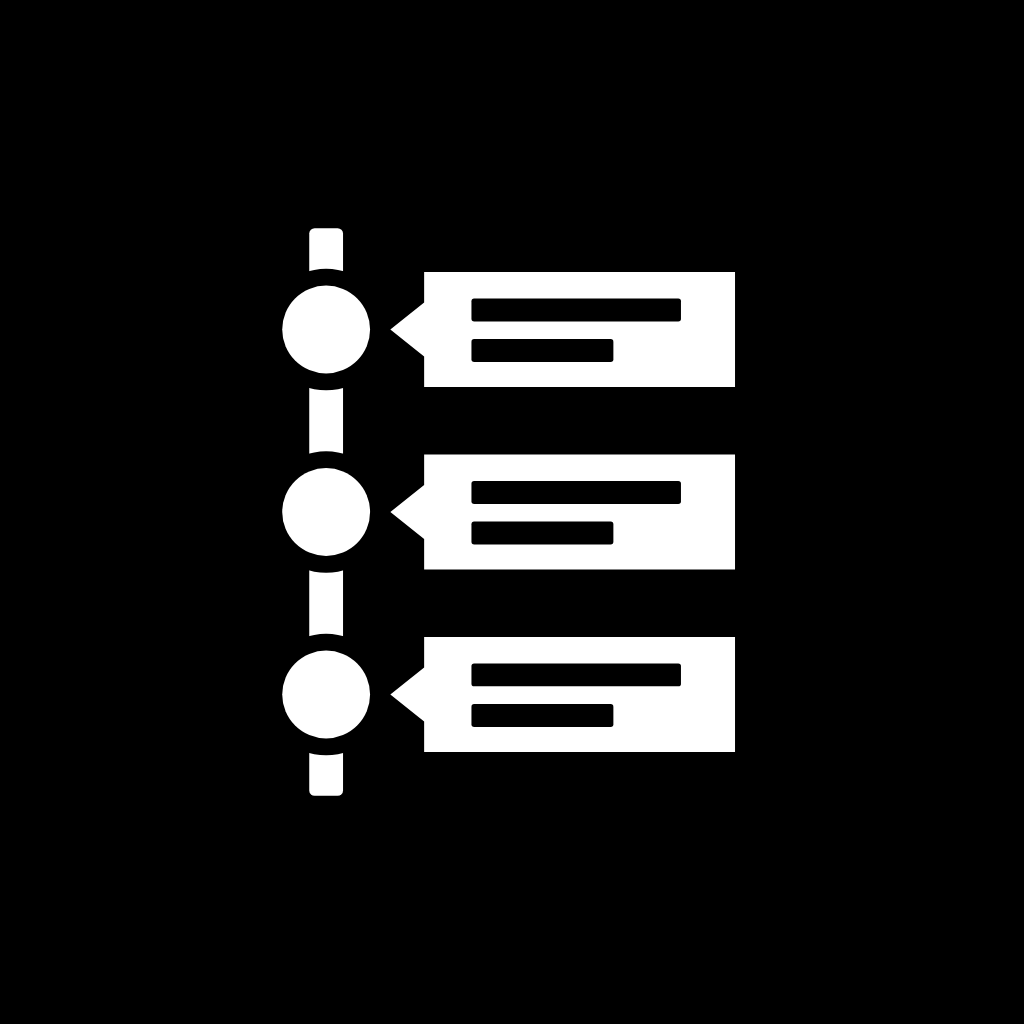
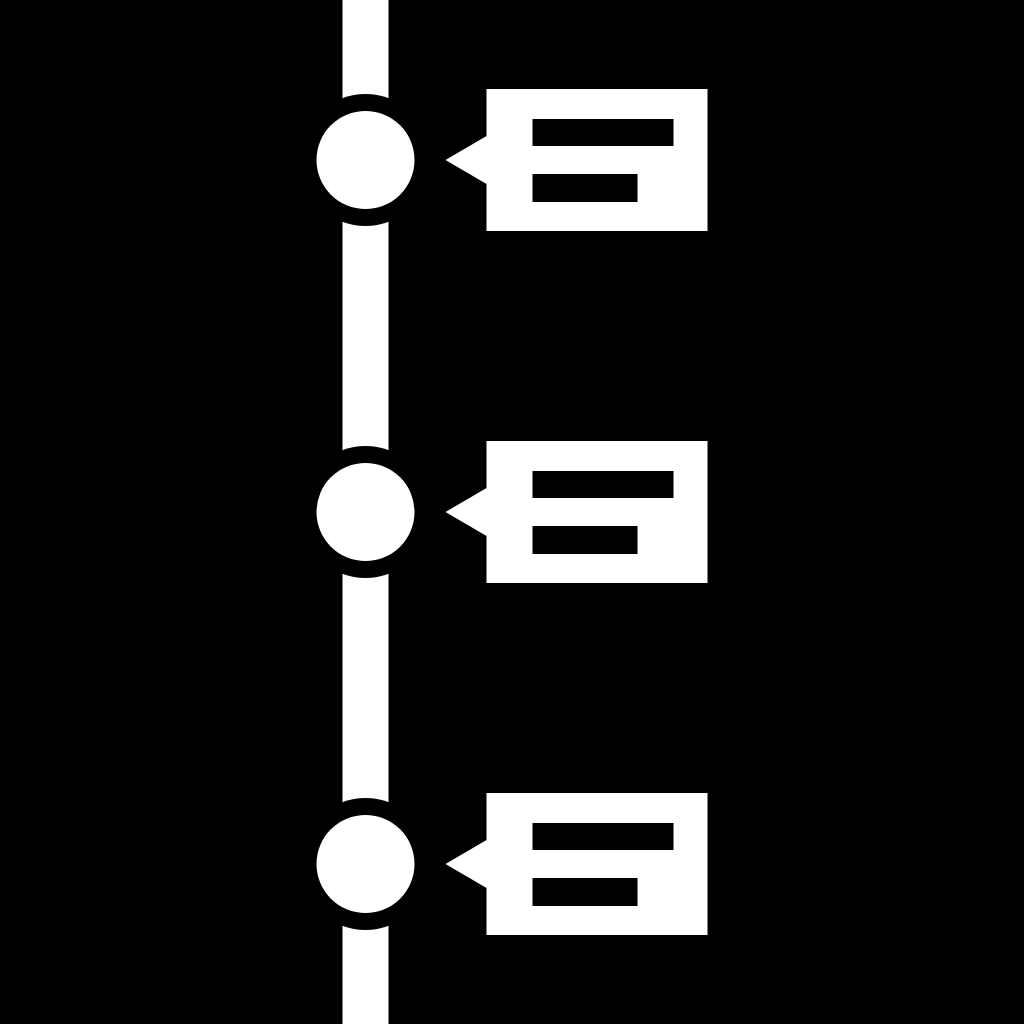
Timeline 1.3.1
- New app icon (supplied timeline_app_icon.svg): launcher, adaptive/themed,
  splash, notification and web favicon.
- Unread posts, reminders and notifications get a gold highlight (left rule,
  border and a faint tint) so they stand out from read ones, web and Android.

Claude-Session: https://claude.ai/code/session_01XptHNMHSp5G8GD6LBX7vSn

Changed region(s): [[0.25, 0.0, 0.7188, 1.0]]

diff --git a/mobile/src/components/PostCard.tsx b/mobile/src/components/PostCard.tsx
@@ -5,7 +5,7 @@ import { useQueryClient } from '@tanstack/react-query';
 import { AlarmClock, Check, Clapperboard, Download, FileText, Link2, Lock, MessageCircle, MoreHorizontal, Music, Play } from 'lucide-react-native';
 import { abs, api, type Attachment, type Post } from '../api';
 import { SOURCE_LABEL, bytes, markRead, setRead, timeAgo } from '../state';
-import { useTheme } from '../theme';
+import { GOLD, GOLD_TINT, useTheme } from '../theme';
 import { AgentBadge, Avatar, Row, T } from './ui';
 import { RemoteImage } from './RemoteImage';
 
@@ -36,14 +36,14 @@ function sourceLine(p: Post) {
 export function ReminderCard({ post }: { post: Post }) {
   const qc = useQueryClient();
   return (
-    <View style={{ flexDirection: 'row', alignItems: 'center', gap: 10, backgroundColor: '#f59e0b14', borderColor: '#f59e0b55', borderWidth: StyleSheet.hairlineWidth, borderLeftWidth: 3, borderLeftColor: '#f59e0b', borderRadius: 5, padding: 12 }}>
-      <View style={{ width: 38, height: 38, borderRadius: 5, backgroundColor: '#f59e0b33', alignItems: 'center', justifyContent: 'center' }}>
-        <AlarmClock size={19} color="#f59e0b" />
+    <View style={{ flexDirection: 'row', alignItems: 'center', gap: 10, backgroundColor: '#d4a42014', borderColor: '#d4a42055', borderWidth: StyleSheet.hairlineWidth, borderLeftWidth: 3, borderLeftColor: '#d4a420', borderRadius: 5, padding: 12 }}>
+      <View style={{ width: 38, height: 38, borderRadius: 5, backgroundColor: '#d4a42033', alignItems: 'center', justifyContent: 'center' }}>
+        <AlarmClock size={19} color="#d4a420" />
       </View>
       <Pressable style={{ flex: 1 }} onPress={() => post.refPost && router.push(`/post/${post.refPost.id}`)}>
         <T bold>{post.title}</T>
         {!!post.body && <T muted size={13}>{post.body}</T>}
-        <Text style={{ color: '#f59e0b', fontSize: 11.5 }}>
+        <Text style={{ color: '#d4a420', fontSize: 11.5 }}>
           Reminder{post.author?.kind === 'agent' ? ` · ${post.author.name}` : ''} · {timeAgo(post.postedAt)}
           {post.refPost ? ` · about “${(post.refPost.title || post.refPost.snippet).slice(0, 30)}”` : ''}
         </Text>
@@ -55,10 +55,10 @@ export function ReminderCard({ post }: { post: Post }) {
           setRead(qc, [post.id], true);
           qc.invalidateQueries({ queryKey: ['unread'] });
         }}
-        style={{ flexDirection: 'row', gap: 4, alignItems: 'center', borderWidth: 1, borderColor: '#f59e0b66', borderRadius: 5, paddingHorizontal: 9, paddingVertical: 6 }}
+        style={{ flexDirection: 'row', gap: 4, alignItems: 'center', borderWidth: 1, borderColor: '#d4a42066', borderRadius: 5, paddingHorizontal: 9, paddingVertical: 6 }}
       >
-        <Check size={14} color="#f59e0b" />
-        <Text style={{ color: '#f59e0b', fontWeight: '700', fontSize: 12.5 }}>Read</Text>
+        <Check size={14} color="#d4a420" />
+        <Text style={{ color: '#d4a420', fontWeight: '700', fontSize: 12.5 }}>Read</Text>
       </Pressable>
     </View>
   );
@@ -164,7 +164,8 @@ export const PostCard = memo(function PostCard({ post, expanded, manualRead }: {
 
   return (
     <View style={{ backgroundColor: t.card, paddingVertical: 12, borderTopWidth: StyleSheet.hairlineWidth, borderBottomWidth: StyleSheet.hairlineWidth, borderColor: t.line }}>
-      {!post.isRead && <View style={{ position: 'absolute', left: 0, top: 0, bottom: 0, width: 3, backgroundColor: t.accent }} />}
+      {!post.isRead && <View pointerEvents="none" style={[StyleSheet.absoluteFill, { backgroundColor: GOLD_TINT }]} />}
+      {!post.isRead && <View style={{ position: 'absolute', left: 0, top: 0, bottom: 0, width: 3, backgroundColor: GOLD }} />}
       <Row gap={10} style={{ alignItems: 'center', paddingHorizontal: PAD }}>
         <Avatar name={a.name} color={a.color} src={a.avatarUrl} kind={a.kind} size={36} />
         <View style={{ flex: 1 }}>

diff --git a/mobile/app/notifications.tsx b/mobile/app/notifications.tsx
@@ -1,11 +1,11 @@
 import { useState } from 'react';
-import { FlatList, Pressable, RefreshControl, View } from 'react-native';
+import { FlatList, Pressable, RefreshControl, StyleSheet, View } from 'react-native';
 import { router } from 'expo-router';
 import { useQuery, useQueryClient } from '@tanstack/react-query';
 import { AlarmClock, Bell } from 'lucide-react-native';
 import { api, type Notification } from '../src/api';
 import { timeAgo } from '../src/state';
-import { useTheme } from '../src/theme';
+import { GOLD, GOLD_TINT, useTheme } from '../src/theme';
 import { Screen } from '../src/components/Screen';
 import { Avatar, Chip, Empty, Loading, Row, T } from '../src/components/ui';
 
@@ -41,10 +41,11 @@ export default function Notifications() {
           refreshControl={<RefreshControl refreshing={q.isRefetching} onRefresh={() => void q.refetch()} tintColor={t.accent} colors={[t.accent]} />}
           ListEmptyComponent={<Empty icon={<Bell size={40} color={t.muted} />} title={unreadOnly ? "You're all caught up" : 'No notifications yet'} />}
           renderItem={({ item: n }) => (
-            <Pressable onPress={() => open(n)} style={{ flexDirection: 'row', gap: 12, padding: 12, borderRadius: 7, backgroundColor: n.readAt ? t.card : t.accentSoft, borderLeftWidth: n.readAt ? 0 : 3, borderLeftColor: t.accent }}>
+            <Pressable onPress={() => open(n)} style={{ flexDirection: 'row', gap: 12, padding: 12, borderRadius: 7, backgroundColor: t.card, overflow: 'hidden', borderLeftWidth: n.readAt ? 0 : 3, borderLeftColor: GOLD }}>
+              {!n.readAt && <View pointerEvents="none" style={[StyleSheet.absoluteFill, { backgroundColor: GOLD_TINT }]} />}
               {n.type === 'reminder' ? (
-                <View style={{ width: 40, height: 40, borderRadius: 7, backgroundColor: '#f59e0b', alignItems: 'center', justifyContent: 'center' }}>
-                  <AlarmClock size={19} color="#fff" />
+                <View style={{ width: 40, height: 40, borderRadius: 7, backgroundColor: GOLD, alignItems: 'center', justifyContent: 'center' }}>
+                  <AlarmClock size={19} color="#1a1400" />
                 </View>
               ) : n.actor ? (
                 <Avatar name={n.actor.name} color={n.actor.color} src={n.actor.avatarUrl} kind={n.actor.kind} size={40} />
@@ -56,7 +57,7 @@ export default function Notifications() {
                 {!!n.body && <T muted size={13} numberOfLines={2}>{n.body}</T>}
                 <T muted size={11.5} style={{ marginTop: 3 }}>{timeAgo(n.createdAt)}</T>
               </View>
-              {!n.readAt && <View style={{ width: 10, height: 10, borderRadius: 5, backgroundColor: t.accent, marginTop: 6 }} />}
+              {!n.readAt && <View style={{ width: 10, height: 10, borderRadius: 5, backgroundColor: GOLD, marginTop: 6 }} />}
             </Pressable>
           )}
         />

diff --git a/web/src/components/PostCard.tsx b/web/src/components/PostCard.tsx
@@ -323,14 +323,14 @@ export function ReminderCard({ post }: { post: Post }) {
     qc.invalidateQueries({ queryKey: ['unread'] });
   };
   return (
-    <div className="fade-up flex flex-wrap items-center gap-3 rounded-md border border-l-[3px] border-amber-500/40 border-l-amber-500 bg-amber-500/[.07] px-4 py-3">
-      <div className="grid h-9 w-9 shrink-0 place-items-center rounded-md bg-amber-500/15 text-amber-500">
+    <div className="fade-up flex flex-wrap items-center gap-3 rounded-md border border-l-[3px] border-gold/40 border-l-gold bg-gold/[.07] px-4 py-3">
+      <div className="grid h-9 w-9 shrink-0 place-items-center rounded-md bg-gold/15 text-gold">
         <AlarmClock size={20} />
       </div>
       <div className="min-w-0 flex-1 basis-48">
         <div className="font-semibold">{post.title}</div>
         {post.body && <div className="text-sm text-muted">{post.body}</div>}
-        <div className="text-xs text-amber-500">
+        <div className="text-xs text-gold">
           Reminder{post.author?.kind === 'agent' ? ` · set by ${post.author.name}` : ''} · {timeAgo(post.postedAt)}
           {post.refPost && (
             <>
@@ -342,7 +342,7 @@ export function ReminderCard({ post }: { post: Post }) {
           )}
         </div>
       </div>
-      <button className="btn btn-sm ml-auto shrink-0 border-amber-500/40 bg-transparent text-amber-500" onClick={dismiss}>
+      <button className="btn btn-sm ml-auto shrink-0 border-gold/40 bg-transparent text-gold" onClick={dismiss}>
         <Check size={15} /> Mark as read
       </button>
     </div>
@@ -398,7 +398,7 @@ export const PostCard = memo(function PostCard({ post, expanded }: { post: Post;
   return (
     <article
       ref={readRef as any}
-      className={`relative rounded-lg border border-line bg-card p-4 max-sm:-mx-3 max-sm:rounded-none max-sm:border-x-0 sm:p-5 ${post.isRead ? '' : 'shadow-[inset_3px_0_0_var(--accent)]'}`}
+      className={`relative rounded-lg border p-4 max-sm:-mx-3 max-sm:rounded-none max-sm:border-x-0 sm:p-5 ${post.isRead ? 'border-line bg-card' : 'border-gold/30 bg-[color-mix(in_srgb,var(--gold)_8%,var(--card))] shadow-[inset_3px_0_0_var(--gold)]'}`}
     >
       <header className="flex items-start gap-3">
         <Avatar name={author.name} color={author.color} src={author.avatarUrl} kind={author.kind} />

diff --git a/web/src/pages/Notifications.tsx b/web/src/pages/Notifications.tsx
@@ -59,9 +59,9 @@ export default function Notifications() {
           {q.data.items.map((n) => {
             const Icon = ICON[n.type] ?? Bell;
             return (
-              <button key={n.id} onClick={() => open(n)} className={`flex items-start gap-3 rounded-2xl border border-line p-3.5 text-left transition hover:border-accent ${n.readAt ? 'bg-card' : 'bg-accent-soft/60 shadow-[inset_3px_0_0_var(--accent)]'}`}>
+              <button key={n.id} onClick={() => open(n)} className={`flex items-start gap-3 rounded-2xl border border-line p-3.5 text-left transition hover:border-accent ${n.readAt ? 'bg-card' : 'border-gold/30 bg-[color-mix(in_srgb,var(--gold)_9%,var(--card))] shadow-[inset_3px_0_0_var(--gold)]'}`}>
                 {n.type === 'reminder' ? (
-                  <div className="grid h-10 w-10 shrink-0 place-items-center rounded-full bg-amber-500 text-white">
+                  <div className="grid h-10 w-10 shrink-0 place-items-center rounded-full bg-gold text-black/80">
                     <AlarmClock size={19} />
                   </div>
                 ) : n.actor ? (
@@ -76,7 +76,7 @@ export default function Notifications() {
                   {n.body && <div className="line-clamp-2 text-sm text-muted">{n.body}</div>}
                   <div className="mt-1 text-xs text-muted">{timeAgo(n.createdAt)}</div>
                 </div>
-                {!n.readAt && <span className="mt-1.5 h-2.5 w-2.5 shrink-0 rounded-full bg-accent" />}
+                {!n.readAt && <span className="mt-1.5 h-2.5 w-2.5 shrink-0 rounded-full bg-gold" />}
               </button>
             );
           })}

diff --git a/mobile/app/(tabs)/reminders.tsx b/mobile/app/(tabs)/reminders.tsx
@@ -60,8 +60,8 @@ export default function Reminders() {
           ListEmptyComponent={<Empty icon={<AlarmClock size={40} color={t.muted} />} title="No reminders">Tap + to add one.</Empty>}
           renderItem={({ item: r }) => (
             <View style={{ flexDirection: 'row', alignItems: 'center', gap: 12, padding: 14, borderRadius: 7, backgroundColor: t.card, borderWidth: 1, borderColor: t.line }}>
-              <View style={{ width: 40, height: 40, borderRadius: 5, backgroundColor: '#f59e0b26', alignItems: 'center', justifyContent: 'center' }}>
-                <AlarmClock size={19} color="#f59e0b" />
+              <View style={{ width: 40, height: 40, borderRadius: 5, backgroundColor: '#d4a42026', alignItems: 'center', justifyContent: 'center' }}>
+                <AlarmClock size={19} color="#d4a420" />
               </View>
               <View style={{ flex: 1 }}>
                 <T bold>{r.title}</T>

diff --git a/mobile/app.config.ts b/mobile/app.config.ts
@@ -8,7 +8,7 @@ const config: ExpoConfig = {
   name: 'Timeline',
   slug: 'timeline',
   scheme: 'timeline',
-  version: '1.3.0',
+  version: '1.3.1',
   orientation: 'default',
   icon: './assets/icon.png',
   userInterfaceStyle: 'automatic',
@@ -16,7 +16,7 @@ const config: ExpoConfig = {
   splash: { image: './assets/splash-icon.png', resizeMode: 'contain', backgroundColor: '#000000' },
   android: {
     package: 'app.timeline.mobile',
-    versionCode: 130,
+    versionCode: 131,
     adaptiveIcon: { foregroundImage: './assets/adaptive-icon.png', backgroundImage: './assets/adaptive-bg.png', monochromeImage: './assets/adaptive-icon.png' },
     permissions: ['POST_NOTIFICATIONS', 'READ_MEDIA_IMAGES', 'READ_MEDIA_VIDEO', 'CAMERA', 'REQUEST_INSTALL_PACKAGES'],
     ...(hasFirebase ? { googleServicesFile: './google-services.json' } : {}),

diff --git a/web/src/pages/Reminders.tsx b/web/src/pages/Reminders.tsx
@@ -57,7 +57,7 @@ export default function Reminders() {
         <div className="flex flex-col gap-2">
           {q.data.map((r) => (
             <div key={r.id} className={`flex items-center gap-3 rounded-2xl border border-line bg-card p-3.5 ${r.status !== 'scheduled' ? 'opacity-60' : ''}`}>
-              <div className="grid h-10 w-10 shrink-0 place-items-center rounded-xl bg-amber-500/15 text-amber-500">
+              <div className="grid h-10 w-10 shrink-0 place-items-center rounded-xl bg-gold/15 text-gold">
                 <AlarmClock size={19} />
               </div>
               <button className="min-w-0 flex-1 text-left" onClick={() => setForm({ id: r.id, title: r.title, body: r.body, due: localInput(new Date(r.dueAt)), repeat: r.repeat ?? '' })}>

diff --git a/mobile/src/theme.tsx b/mobile/src/theme.tsx
@@ -19,6 +19,9 @@ export const THEMES: Record<string, Palette> = {
   sepia: { ...light, bg: '#f4ecd8', panel: '#fbf5e6', card: '#fdf8ec', raised: '#efe4c8', line: '#e2d4b0', text: '#3d3021', muted: '#7d6a50', accent: '#b4532a', accentSoft: '#f3dcc8', accentText: '#9a3f18' },
   rose: { ...light, bg: '#fff5f7', raised: '#ffe9ee', line: '#fbd5de', text: '#2a1219', muted: '#8c5a68', accent: '#e11d48', accentSoft: '#ffe0e8', accentText: '#be123c' },
 };
+/** Unread highlight (posts, reminders, notifications). */
+export const GOLD = '#d4a420';
+export const GOLD_TINT = 'rgba(212,164,32,0.10)';
 export const THEME_NAMES = ['system', 'light', 'dark', 'amoled', 'nord', 'ocean', 'forest', 'sepia', 'rose'];
 
 const Ctx = createContext<Palette>(dark);

diff --git a/web/src/index.css b/web/src/index.css
@@ -13,6 +13,7 @@
   --color-accent-soft: var(--accent-soft);
   --color-accent-text: var(--accent-text);
   --color-danger: #ef4444;
+  --color-gold: var(--gold);
   --font-sans: 'Inter', 'Noto Sans', ui-sans-serif, system-ui, sans-serif;
   /* Tight corner scale: the shape stays out of the way of the content. */
   --radius-sm: 4px;
@@ -25,6 +26,7 @@
 
 :root,
 [data-theme='light'] {
+  --gold: #d4a420; /* unread: posts, reminders, notifications */
   --bg: #f5f6fa;
   --panel: #ffffff;
   --card: #ffffff;

diff --git a/server/src/index.ts b/server/src/index.ts
@@ -49,7 +49,7 @@ app.get('/api/openapi.json', (c) =>
       openapi: '3.1.0',
       info: {
         title: 'Timeline API',
-        version: '1.3.0',
+        version: '1.3.1',
         description:
           'Self-hosted timeline. Create an AI agent under Settings → AI agents to get an API key, then send it as `Authorization: Bearer tlk_...`. ' +
           'Upload files with `PUT /api/uploads?filename=x.mp4` (raw body), then reference the returned id in `attachmentIds` when creating a post. ' +

diff --git a/server/src/mcp.ts b/server/src/mcp.ts
@@ -26,7 +26,7 @@ function slim(p: any) {
 }
 
 function buildServer(user: AuthUser) {
-  const server = new McpServer({ name: 'timeline', version: '1.3.0' }, {
+  const server = new McpServer({ name: 'timeline', version: '1.3.1' }, {
     instructions:
       `You are connected to the Timeline of ${user.kind === 'agent' ? 'your owner' : user.name}. ` +
       'Posts you create appear on that timeline with your name and an "AI agent" badge, and notify the owner. ' +

diff --git a/mobile/src/push.ts b/mobile/src/push.ts
@@ -24,7 +24,7 @@ export async function registerForPush(): Promise<string> {
       importance: Notifications.AndroidImportance.MAX,
       sound: 'default',
       vibrationPattern: [0, 400, 200, 400],
-      lightColor: '#f59e0b',
+      lightColor: '#d4a420',
       bypassDnd: false,
       showBadge: true,
     });
